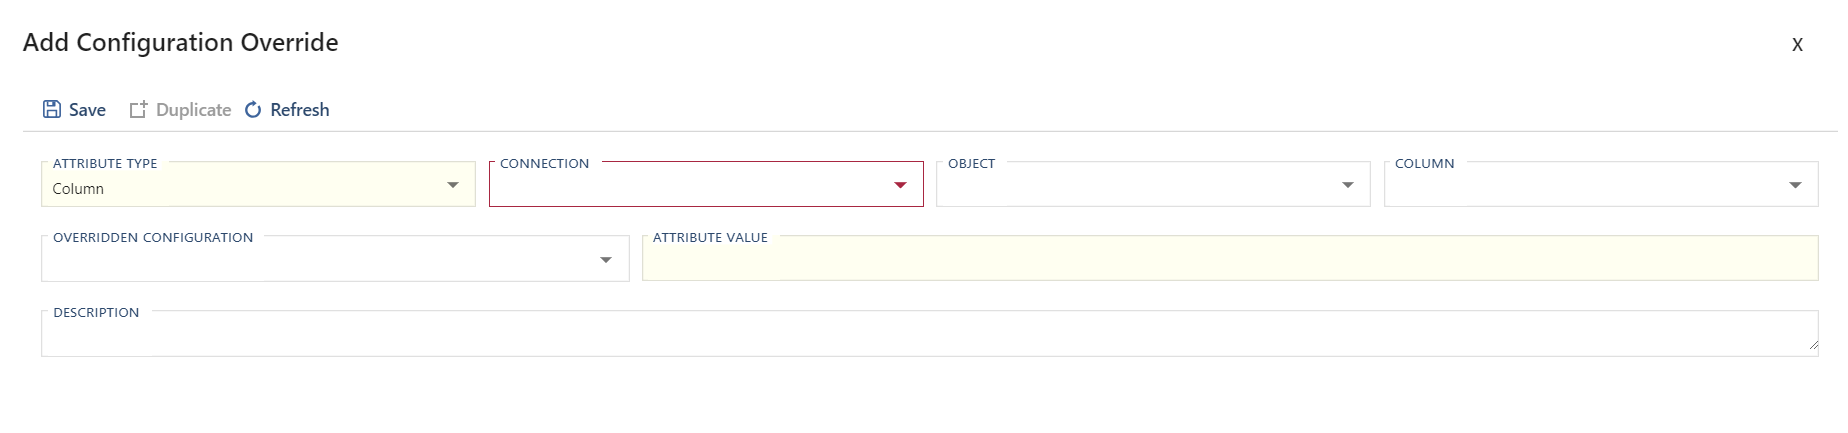
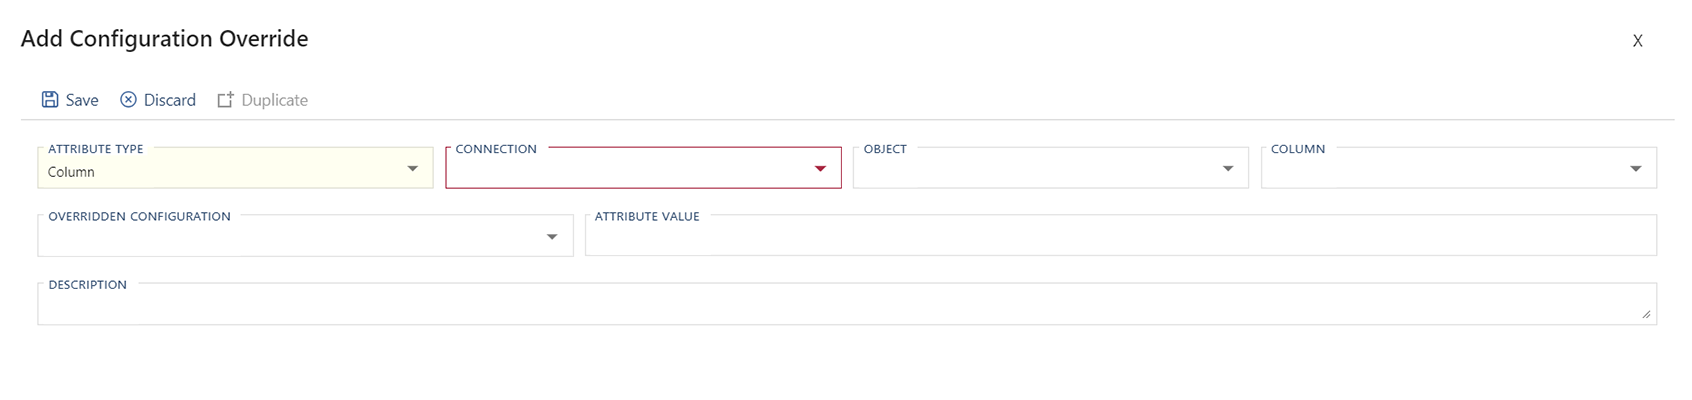
edits to metadata-editors -> objects, colums, parameters

diff --git a/bimlflex/metadata-editors/parameters.md b/bimlflex/metadata-editors/parameters.md
@@ -2,7 +2,7 @@
 uid: parameters
 title: Parameters
 ---
-# Parameters Editor  
+# Parameters Editor
 
 Parameters for load queries are added either as metadata in the Parameters sheet or via Extension Points. For high watermark delta loads and similar simple parameters adding the parameter to the metadata will generate and include all required logic to the load process.  
 
@@ -16,6 +16,8 @@ Parameters added to a project, batch package, or regular package can be used as 
 
 The following sections describe the UI elements of the **Parameters Editor** and how they are used to author and manage BimlFlex **Parameters**.  
 
+![BimlFlex Parameters Editor - Overview](images/bfx-parameters-overview.png "BimlFlex Parameters Editor - Overview")
+
 <!--
 **Parameters Editor**  
 <img
@@ -23,31 +25,33 @@ The following sections describe the UI elements of the **Parameters Editor** and
     title="Parameters Editor"
 />
 -->
-
-<!--
-TO DO: Add new image of Parameters screen, once feature locked.
--->
-
-**Parameters** within BimlFlex are displayed in hierarchical tree view on the left sidenav menu.
+**Parameters** within BimlFlex are displayed in a hierarchical tree view on the left sidenav menu.
 The number of active parameters will be displayed next to the Object names in parentheses.
 
 Selecting an Object with a single Parameter will immediately navigate the user to the Parameter edit screen.
 
 Selecting an Object with multiple Parameters will display a list of all active parameters within. The user may navigate to any Parameter by selecting from the displayed list.
 
+Any instance of the 'Compass' icon will serve as a Global Navigation Transition.
+Clicking this icon will navigate the user directly to the referenced Connection or Object.
+
 ## Action Buttons  
 
+![BimlFlex Parameters Action Buttons](images/bfx-parameters-action-bar.png "BimlFlex Parameters Action Buttons")
+
+<!--
 <img
     src="images/bimlflex-app-editor-parameters-actions.png"
     title="Parameters Editor"
 />
+-->
 
 |Icon|Action|Description|
 |-|-|-|
 | <div class="icon-col m-5"><img src="images/svg-icons/save.svg" /></div> | Save | This will save the currently set of staged changes.  The **Save** button is will only enable if the **Parameter** has changes staged and there are no major validation issues with the current **Parameter** properties.|
-| <div class="icon-col m-5"><img src="images/svg-icons/duplicate-objects.svg" /></div> | Duplicate | This will create a duplicate of the selected **Parameter**.  A [Duplicate Parameter Dialog](#duplicate-parameter-dialog-box) will appear asking for a *Parameter Name* and a new **Parameter** will be created using all of the selected **Parameter**'s current properties. |
+| Discard | Discard | This will **Discard** any unsaved changes and revert to last saved form. |
 |<div class="icon-col m-5"><img src="images/svg-icons/archive-delete.svg" /></div> | Archive | This will hard delete the selected **Parameter**.  This will result in the physical removal of the selected record from the metadata database.  The data will no longer be accessible by the BimlFlex app and will require a Database Administrator to restore, if possible. Clicking **Archive** creates an [Archive Parameter Dialog](#archive-parameter-dialog-box). |
-| <div class="icon-col m-5"><img src="images/svg-icons/refresh.svg" /></div> | Refresh | This will trigger a refresh of the metadata for the selected **Parameter**. |
+| <div class="icon-col m-5"><img src="images/svg-icons/duplicate-objects.svg" /></div> | Duplicate | This will create a duplicate of the selected **Parameter**.  A [Duplicate Parameter Dialog](#duplicate-parameter-dialog-box) will appear asking for a *Parameter Name* and a new **Parameter** will be created using all of the selected **Parameter**'s current properties. |
 | <img src="images/bimlflex-app-action-switch.png" /> | Deleted | This will soft delete the currently selected **Parameter**.  This will remove the **Parameter** and all associated entities from processing and validation. |
 
 ## Additional Dialogs  

diff --git a/bimlflex/metadata-editors/columns.md b/bimlflex/metadata-editors/columns.md
@@ -15,26 +15,31 @@ The **Columns** Editor is used to manage how BimlFlex interacts with all **Colum
 
 ![BimlFlex Columns Editor](images/bfx-columns-editor.png "BimlFlex Columns Editor")
 
-**Columns** within BimlFlex are displayed in hierarchical tree view on the left sidenav menu.
-Active columns will be displayed next to the Object names in parentheses.
+**Columns** within BimlFlex are displayed organized by Connection, by default.
+Selecting a Column will navigate the user to a list of all Columns within that same Object.
+The user can navigate to any Column within that same Object by selecting it from the displayed list.
 
-Selecting an Object with a single Column will immediately navigate the user to the Column edit screen.
+Any field with the 'Compass' icon will serve as a Global Navigation Transition.
+Clicking this icon will navigate the user directly to the referenced Connection or Object.
 
-Selecting an Object with multiple Columns will display a list of all active columns within. The user may navigate to any Column by selecting from the displayed list.
+![Columns Global Navigation Transition](images/bfx-columns-global-nav.png "Columns Global Navigation Transition")
 
 ## Action Buttons  
 
+![Columns Editor Action Buttons](images/bfx-objects-action-buttons.png "Columns Editor Action Buttons")
+
+<!--
 <img
     src="images/bimlflex-app-editor-columns-actions.png"
     title="Columns Editor Actions"
 />
-
+-->
 | Icon | Action | Description |
 |-|-|-|
 | <div class="icon-col m-5"><img src="images/svg-icons/save.svg" /></div> | Save | Saves any changes made in the form. The **Save** button will only enabled if there are unsaved changes in the form and no major validation errors. |
-| <div class="icon-col m-5"><img src="images/svg-icons/duplicate-objects.svg" /></div> | Duplicate | This will create a duplicate of the selected **Column**.  Clicking the **Duplicate** button will cause a [Duplicate Column Dialog](#duplicate-column-dialog) to appear. The new **Column** will be created using all of the selected **Column**'s current properties. |
+| Discard | Discard | This will **Discard** any unsaved changes and revert to last saved form. |
 | <div class="icon-col m-5"><img src="images/svg-icons/archive-delete.svg" /></div> | Archive | This will hard delete the selected **Column**.  This will result in the physical removal of the selected record from the metadata database.  The data will no longer be accessible by the BimlFlex app and will require a Database Administrator to restore, if possible. Clicking **Archive** generates an [Archive Column Dialog](#archive-column-dialog).|
-| <div class="icon-col m-5"><img src="images/svg-icons/refresh.svg" /></div> | Refresh | This will trigger a refresh of the metadata for the selected **Column**. All unsaved changes will be lost. |
+| <div class="icon-col m-5"><img src="images/svg-icons/duplicate-objects.svg" /></div> | Duplicate | This will create a duplicate of the selected **Column**.  Clicking the **Duplicate** button will cause a [Duplicate Column Dialog](#duplicate-column-dialog) to appear. The new **Column** will be created using all of the selected **Column**'s current properties. |
 | <img src="images/bimlflex-app-action-switch.png" /> | Exclude | This will remove the **Column** from processing and validation.  This is designed to be paired with the `Use My Exclusions (Locally)` global setting to allow for multiple developers to work on different functional areas without deleting or globally excluding entities. |
 | <img src="images/bimlflex-app-action-switch.png" /> | Deleted | This will soft delete the currently selected **Column**.  This will remove the **Column** from processing and validation. |
 

diff --git a/bimlflex/metadata-editors/bimlflex-tour.md b/bimlflex/metadata-editors/bimlflex-tour.md
@@ -10,9 +10,9 @@ The following sections describe the UI elements that make up an Entity Editor an
 
 ## BimlFlex Menu  
 
-The BimlFlex Menu provides quick navigation to the available editors and modeling tools.  The menu is dynamic and automatically expands and hides based on the current size of the application window.  If the menu is hidden you can use the button annotated below to open.  
+The BimlFlex Menu provides quick navigation to the available editors and modeling tools.  The menu is dynamic and automatically expands and hides based on the current size of the application window.  If the menu is hidden you can use the button annotated below to open.
 
-**BimlFlex Menu**  
+**BimlFlex Menu**
 
 ![BimlFlex Menu](images/bfx-navigation-menu-01.png "BimlFlex Menu")
 
@@ -25,9 +25,12 @@ The BimlFlex Menu provides quick navigation to the available editors and modelin
 
 ## BimlFlex Metadata Editor Layout  
 
-The BimlFlex Metadata Editors are provided to give a streamlined and intuitive way to enter and manage your metadata.  The available features may vary from editor to editor but they all use the same layout.  What follows is a quick tour of the various editor elements and how they function.  For detailed information of the available the features reference the relevant documentation for the appropriate editor.  
+The BimlFlex Metadata Editors are provided to give a streamlined and intuitive way to enter and manage your metadata.
+The available features may vary from editor to editor but they all use the same layout.
+What follows is a quick tour of the various editor elements and how they function.
+For detailed information of the available the features reference the relevant documentation for the appropriate editor.  
 
-**Editor Layout**  
+**Editor Layout**
 
 ![BimlFlex Editor](images/bfx-metadata-editor-layout.png "BimlFlex Editor")
 
@@ -39,7 +42,7 @@ The BimlFlex Metadata Editors are provided to give a streamlined and intuitive w
 
 BimlFlex features a breadcrumb navigation to easily raise your view to a higher context when needed.  The entities shown in the breadcrumbs will depend on the entity that is being viewed and the navigation path that was used.  Elements are provided to select either the associated parent entity or to navigate without filter context to a parent element editor.  
 
-**Breadcrumb Navigation Elements**  
+**Breadcrumb Navigation Elements**
 
 ![Breadcrumb Navigation Elements](images/bfx-breadcrumb-nav-elements.png "Breadcrumb Navigation Elements")
 
@@ -79,6 +82,8 @@ The entity list enumerates all of the available entities for the current filter 
 />
 -->
 
+**Entity List - Multi-Column**
+
 ![Entity List - Mutli-Column](images/bfx-entity-list-multi-column.png "Entity List - Multi Column")
 
 <!--
@@ -92,6 +97,7 @@ The entity list enumerates all of the available entities for the current filter 
 |-|-|-|-|
 | <div class="icon-col m-5"><img src="images/svg-icons/sort-desc.svg"/></div> | Sort Descending | When shown the column is currently sorting in descending order.  Click to switch to ascending order. |
 | <div class="icon-col m-5"><img src="images/svg-icons/sort-asc.svg"/></div> | Sort Ascending | When shown the column is currently sorting in ascending order.  Click to switch to descending order. |
+| Hamburger | Filter | Search current list for specific name or label. Can add boolean operators to assist in filter function.
 
 > [!TIP]
 > All of the columns support the ability for filters but the button is hidden by default.  To show the button mouse over the field you would like to filter.  

diff --git a/bimlflex/metadata-editors/objects.md b/bimlflex/metadata-editors/objects.md
@@ -21,11 +21,8 @@ The following sections describe the UI elements of the **Objects Editor** and ho
 ![BimlFlex Objects Editor](images/bfx-object-editor-overview.png "BimlFlex Objects Editor")
 
 **Objects** within BimlFlex are displayed in hierarchical tree view on the left sidenav menu.
-The number of Objects will be displayed next to the Object name in parentheses.
 
-Selecting a single Object will immediately navigate the user to the Parameter edit screen.
-
-Selecting multiple Objects will display a list of all objects available. The user may navigate to any Object by selecting from the displayed list.
+Selecting an Object will navigate the user to the Details Tab edit screen.
 
 ## Details Tab
 
@@ -33,14 +30,18 @@ The **Details Tab** focuses on general **Object** information and configuration.
 
 ### Details Tab - Action Buttons
 
+![BimlFlex - Objects Editor Actions](images/bfx-app-editor-objects-action.png "BimlFlex - Objects Editor Actions")
+<!--
 <img
     src="images/bimlflex-app-editor-objects-actions.png"
     title="Objects Editor Actions"
 />
+-->
 
 |Icon|Action|Description|
 |-|-|-|
 | <div class="icon-col m-5"><img src="images/svg-icons/save.svg" /></div> | Save | This will save the current set of staged changes.  The **Save** button is will only enable if the **Object** has changes staged and there are no major validation issues with the current **Object** properties. |
+| Discard | Discard | This will **Discard** any unsaved changes and revert to last saved form. |
 | <div class="icon-col m-5"><img src="images/svg-icons/archive-delete.svg" /></div> | Archive | This will hard delete the selected **Object**.  This will result in the physical removal of the selected record from the metadata database.  The data will no longer be accessible by the BimlFlex app and will require a Database Administrator to restore, if possible. Clicking **Archive** creates an [Archive Object Dialog](#archive-object-dialog-box). |
 | <div class="icon-col m-5"><img src="images/svg-icons/clone-objects.svg" /></div> | Clone | This will bring up [Clone Table Dialog](#clone-table-dialog-box) that is used primarily in the creation and loading of a Data Mart. |
 | <div class="icon-col m-5"><img src="images/svg-icons/duplicate-objects.svg" /></div> | Duplicate | This will create a duplicate of the selected **Object**.  A [Duplicate Table Dialog](#duplicate-table-dialog-box) will appear asking for a *Target Table Name* and a new **Object** will be created using all of the selected **Object**'s current properties. |

diff --git a/bimlflex/metadata-editors/configurations.md b/bimlflex/metadata-editors/configurations.md
@@ -21,13 +21,19 @@ The **Configurations Editor** is used to manage configurations which drive the b
 
 The action buttons modify the **Configuration** that is active in the editor.
 
-
+<!--
 ![BimlFlex App - Configurations - Command Bar](images/bimlflex-app-configurations-command-bar.64566.png "BimlFlex App - Configurations - Command Bar")
+-->
+![BimlFlex App - Configurations - Command Bar](images/bfx-configurations-command-bar.png "BimlFlex App - Configurations - Command Bar")
 
 |Icon|Action|Description|
 |-|-|-|
 | <div style="width:30px;height:30px;background:white"><img src="images/svg-icons/save.svg" /></div> | Save | This will save any changes displayed in the **Configurations** editor.  The **Save** button is only enabled if there are changes in the editor. |
+| Discard | Discard | **Discard** any unsaved changes and revert to last saved form. |
+
+<!--
 | <div style="width:30px;height:30px;background:white"><img src="images/svg-icons/refresh.svg" /></div> | Refresh | This will refresh the currently displayed **Configuration**. Any pending changes will be removed. |
+-->
 
 ## Configuration Editor
 
@@ -61,7 +67,10 @@ Configuration Overrides are saved in BimlFlex as **Attributes**. The [Attributes
 
 ### Add a Configuration Override
 
-To add a **Configuration Override**, click `+ Add` on the Overrides tab. 
+To add a **Configuration Override**, click `+ Add` on the Overrides tab.
+
+![BimlFlex Add Configuration Override]
+
 
 ![BimlFlex Add Configuration Override](images/bfx-add-attribute-override-plus-button.png "BimlFlex Add Configuration Override")
 
